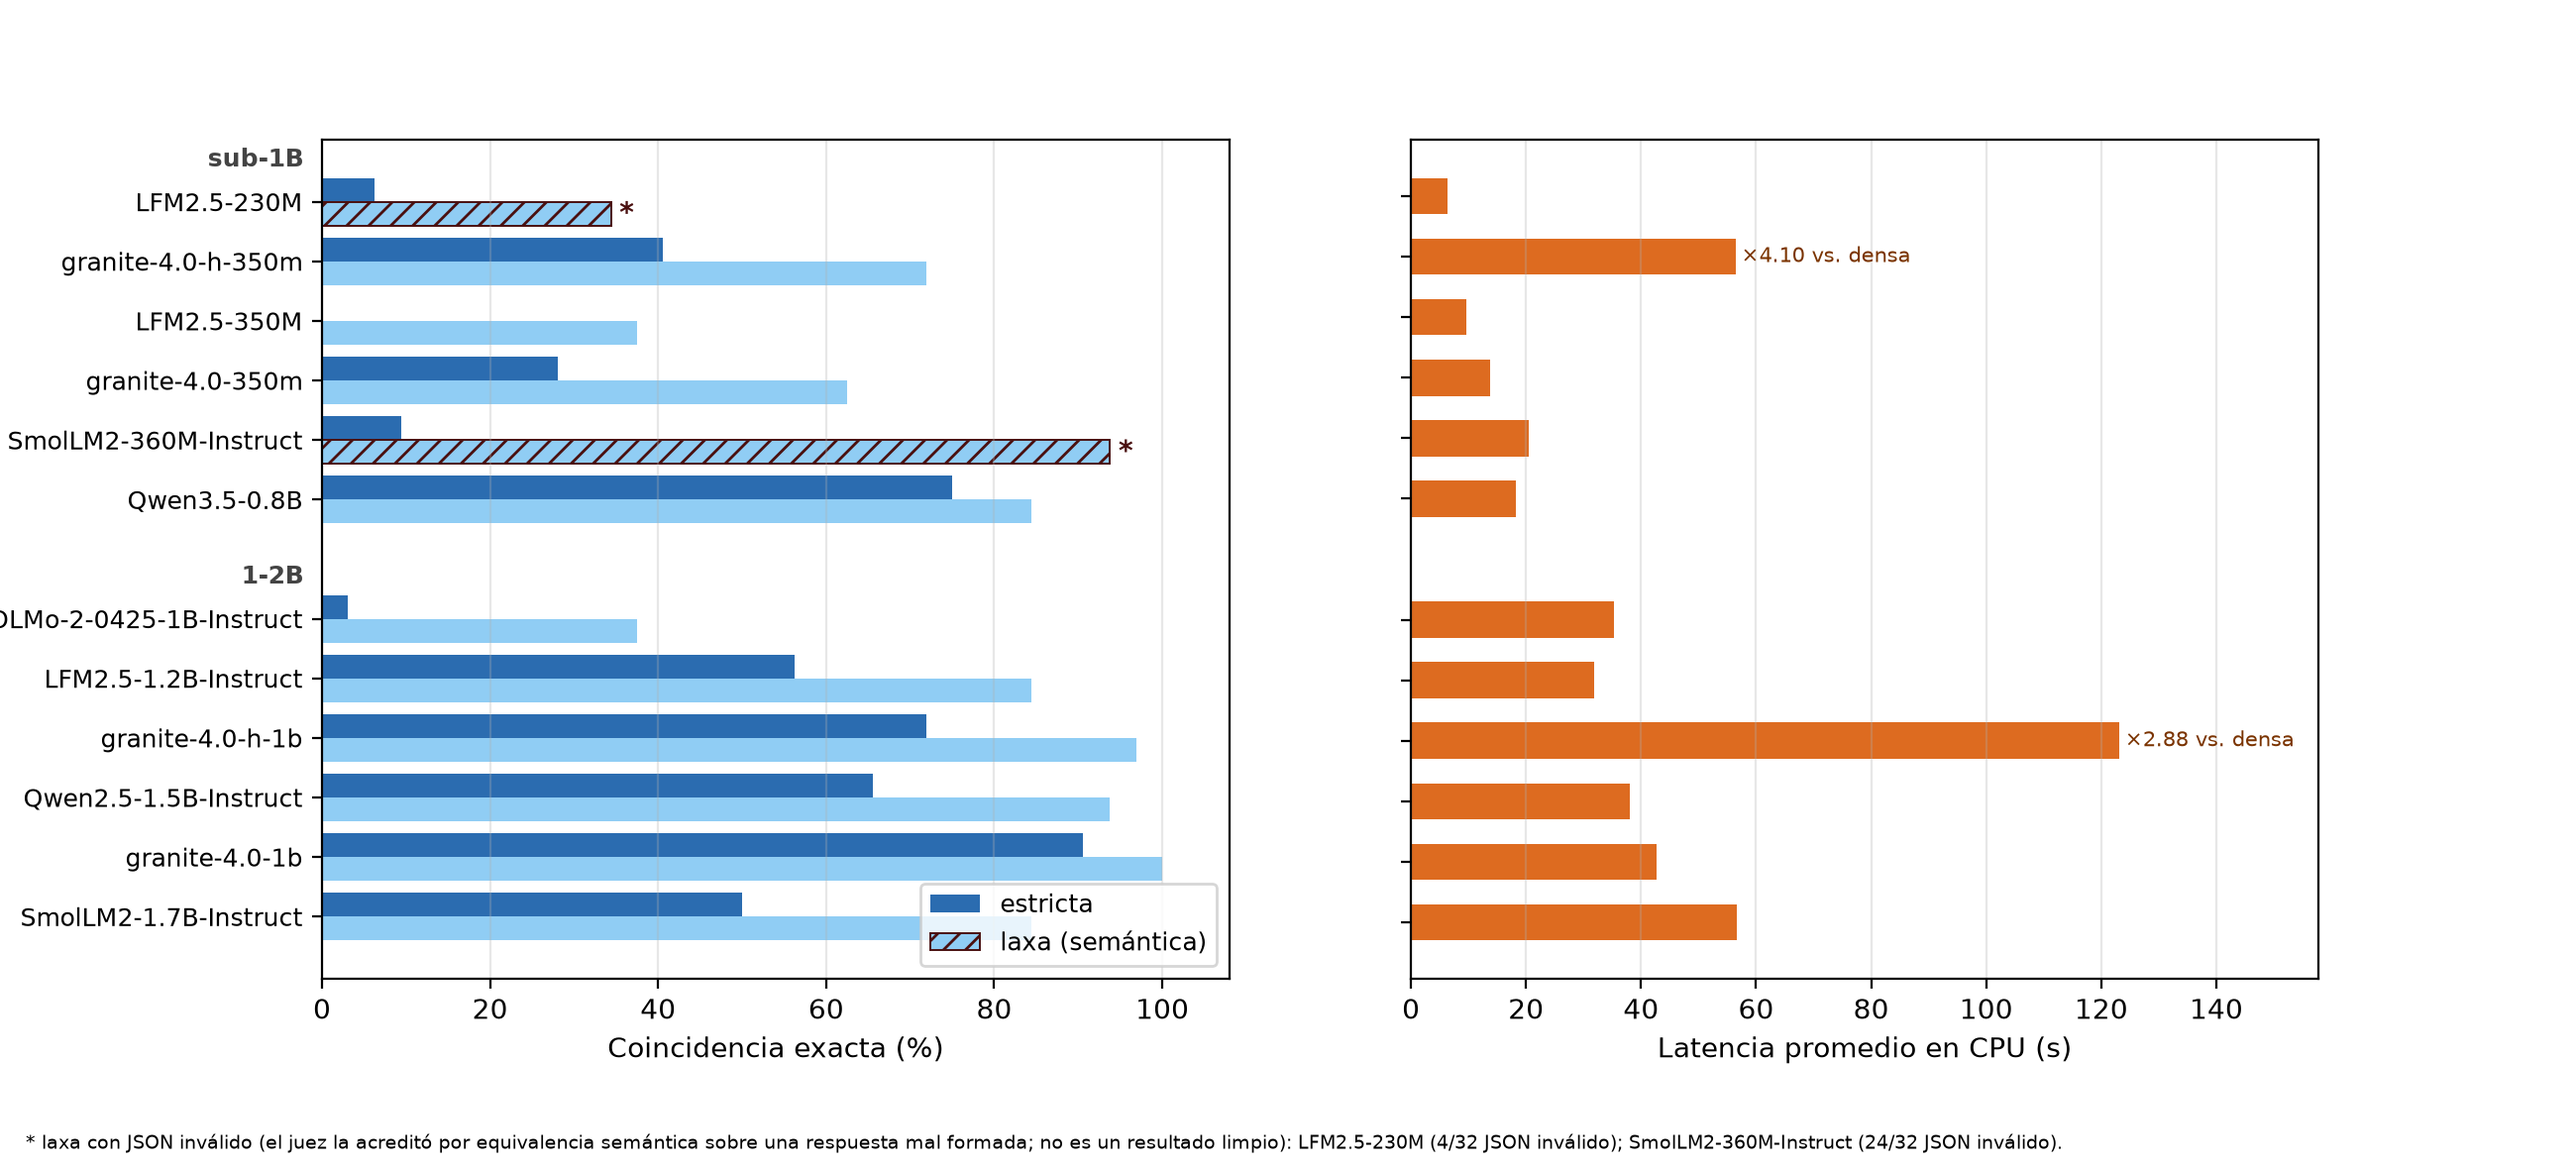
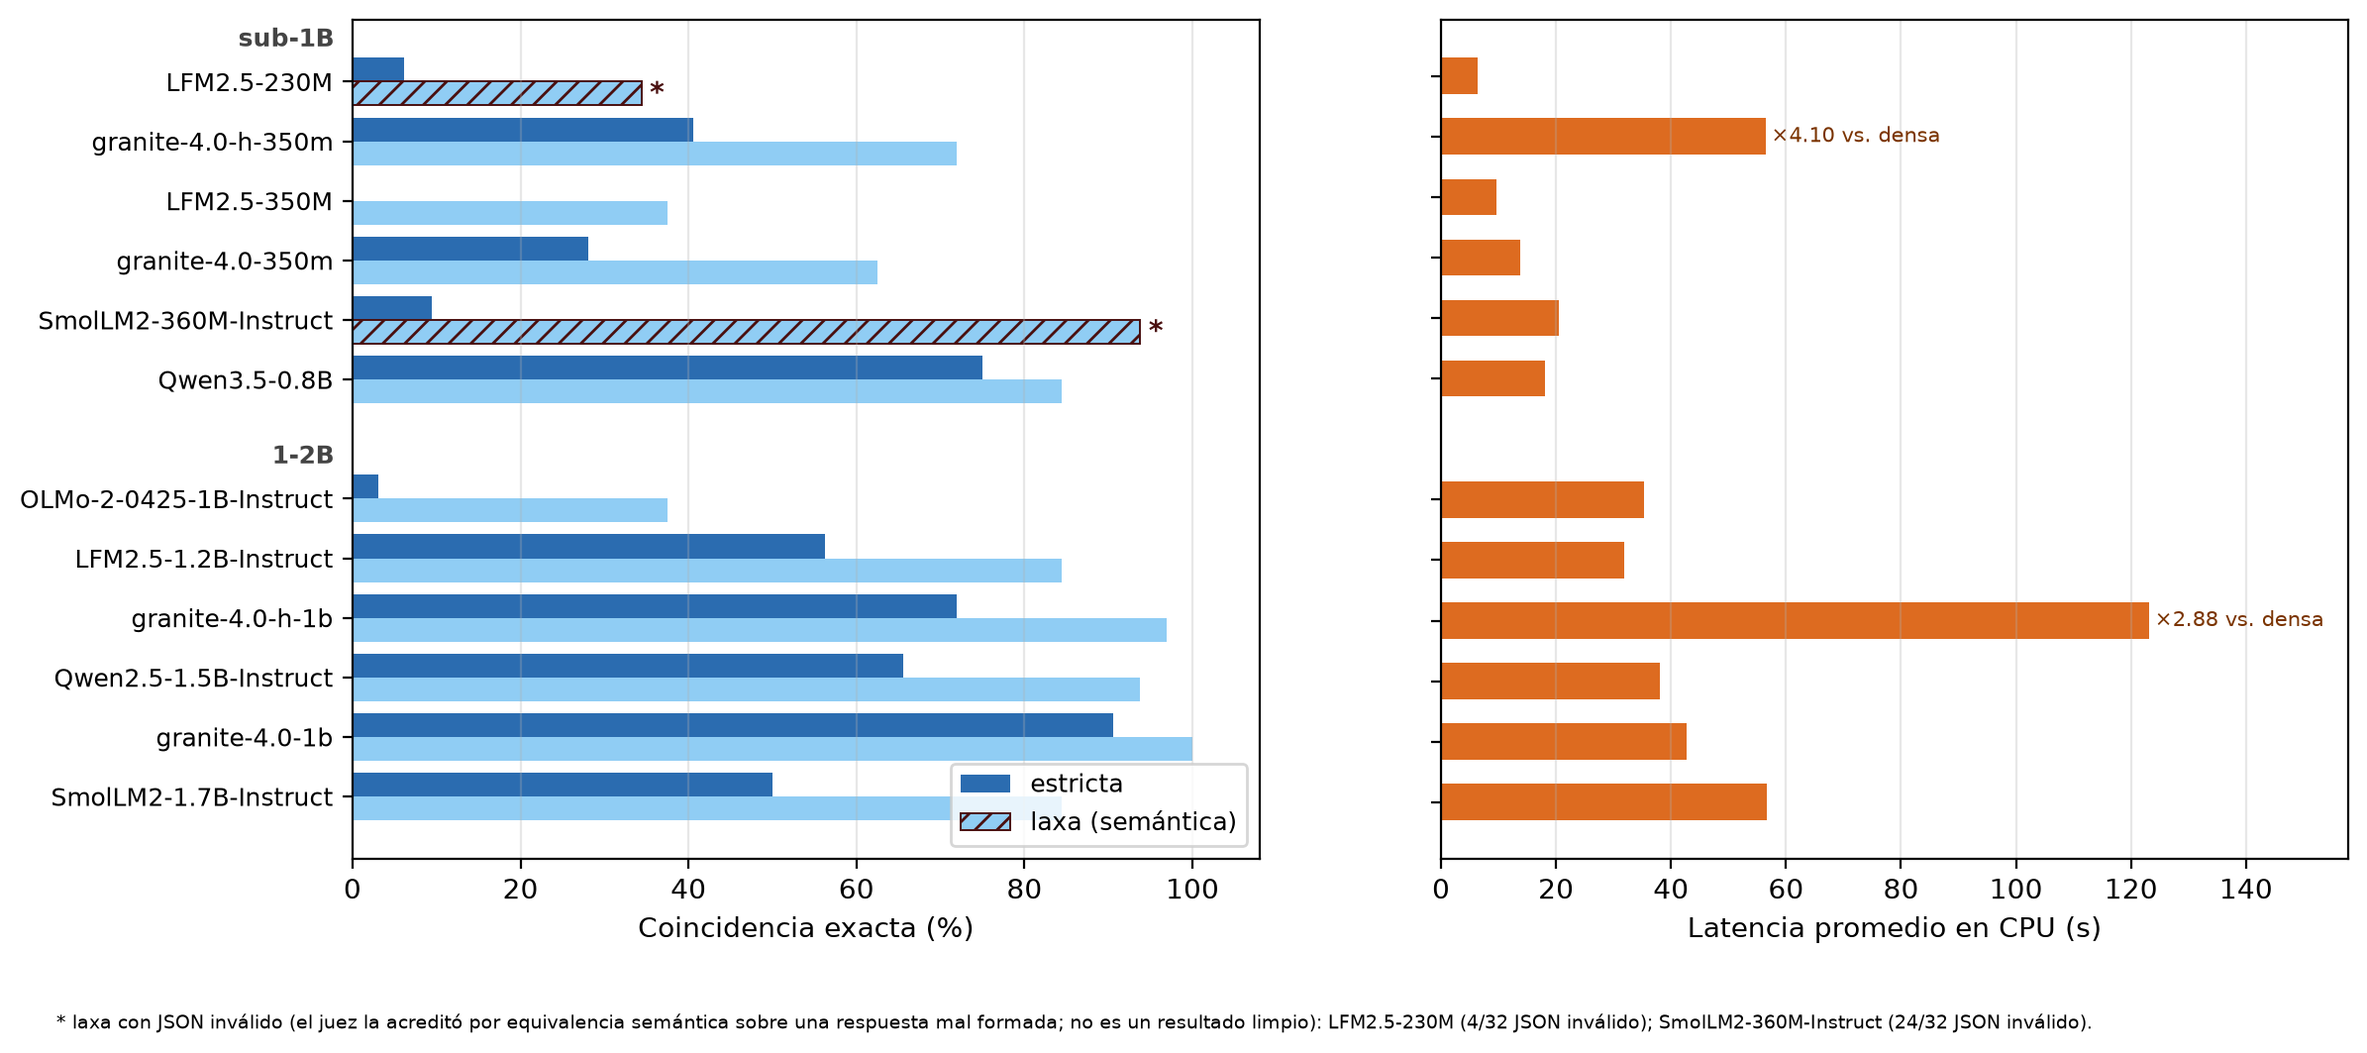
fix(figuras-2026): evitar clipping de la etiqueta OLMo-2-0425-1B-Instruct en fig1
La rama de fig1 con notas de pie (JSON invalido) usaba fig.subplots_adjust
(bottom=0.16) en vez de tight_layout, sin reservar margen izquierdo para las
etiquetas largas del eje Y. Con los 12 modelos del roster activo, el margen
por defecto no alcanzaba y la "O" inicial de "OLMo-2-0425-1B-Instruct" se
recortaba en el PNG (visible tambien en el PDF compilado), violando RF12.

Fix: bbox_inches="tight" en fig.savefig() para fig1 y fig2, que recorta el
lienzo al bbox real de los artistas renderizados (incluida la anotacion de
tier y la nota al pie) en vez de depender de un margen fijo. Se regeneraron
solo las figuras de figures/2026/ y sus copias en paper/02_reescrito/figuras/
(el paper las copia a mano, ver TODO_15). No se toco ningun figures/fig{1,2}_*
de la raiz (F0 congelado) ni ningun valor graficado.

Verificado: se releyo el PNG regenerado (la etiqueta completa aparece con
margen) y se reconstruyo paper/02_reescrito/main.pdf (22 paginas); la Figura 1
en la pagina 11 muestra "OLMo-2-0425-1B-Instruct" completa, sin recorte.

diff --git a/src/generate_figures_2026.py b/src/generate_figures_2026.py
@@ -197,7 +197,13 @@ def generar_figuras(path_resumen: Path, dir_salida: Path, sufijo: str) -> list[P
         fig.tight_layout()
 
     ruta1 = dir_salida / f"fig1_exactitud_latencia_2026{sufijo}.png"
-    fig.savefig(ruta1, dpi=200)
+    # bbox_inches="tight" recorta el lienzo al bbox real de los artistas ya
+    # renderizados (incluida la etiqueta del tier a la izquierda del eje Y y
+    # la nota de pie de figura cuando existe), en vez de depender de un
+    # margen fijo: eso es lo que evita que la rama con nota al pie
+    # (subplots_adjust solo ajusta 'bottom') clipee la "O" inicial de las
+    # etiquetas largas como 'OLMo-2-0425-1B-Instruct' en el eje Y.
+    fig.savefig(ruta1, dpi=200, bbox_inches="tight")
     plt.close(fig)
     salidas.append(ruta1)
 
@@ -222,7 +228,7 @@ def generar_figuras(path_resumen: Path, dir_salida: Path, sufijo: str) -> list[P
 
     fig.tight_layout()
     ruta2 = dir_salida / f"fig2_exactitud_por_campo_2026{sufijo}.png"
-    fig.savefig(ruta2, dpi=200)
+    fig.savefig(ruta2, dpi=200, bbox_inches="tight")
     plt.close(fig)
     salidas.append(ruta2)
 
